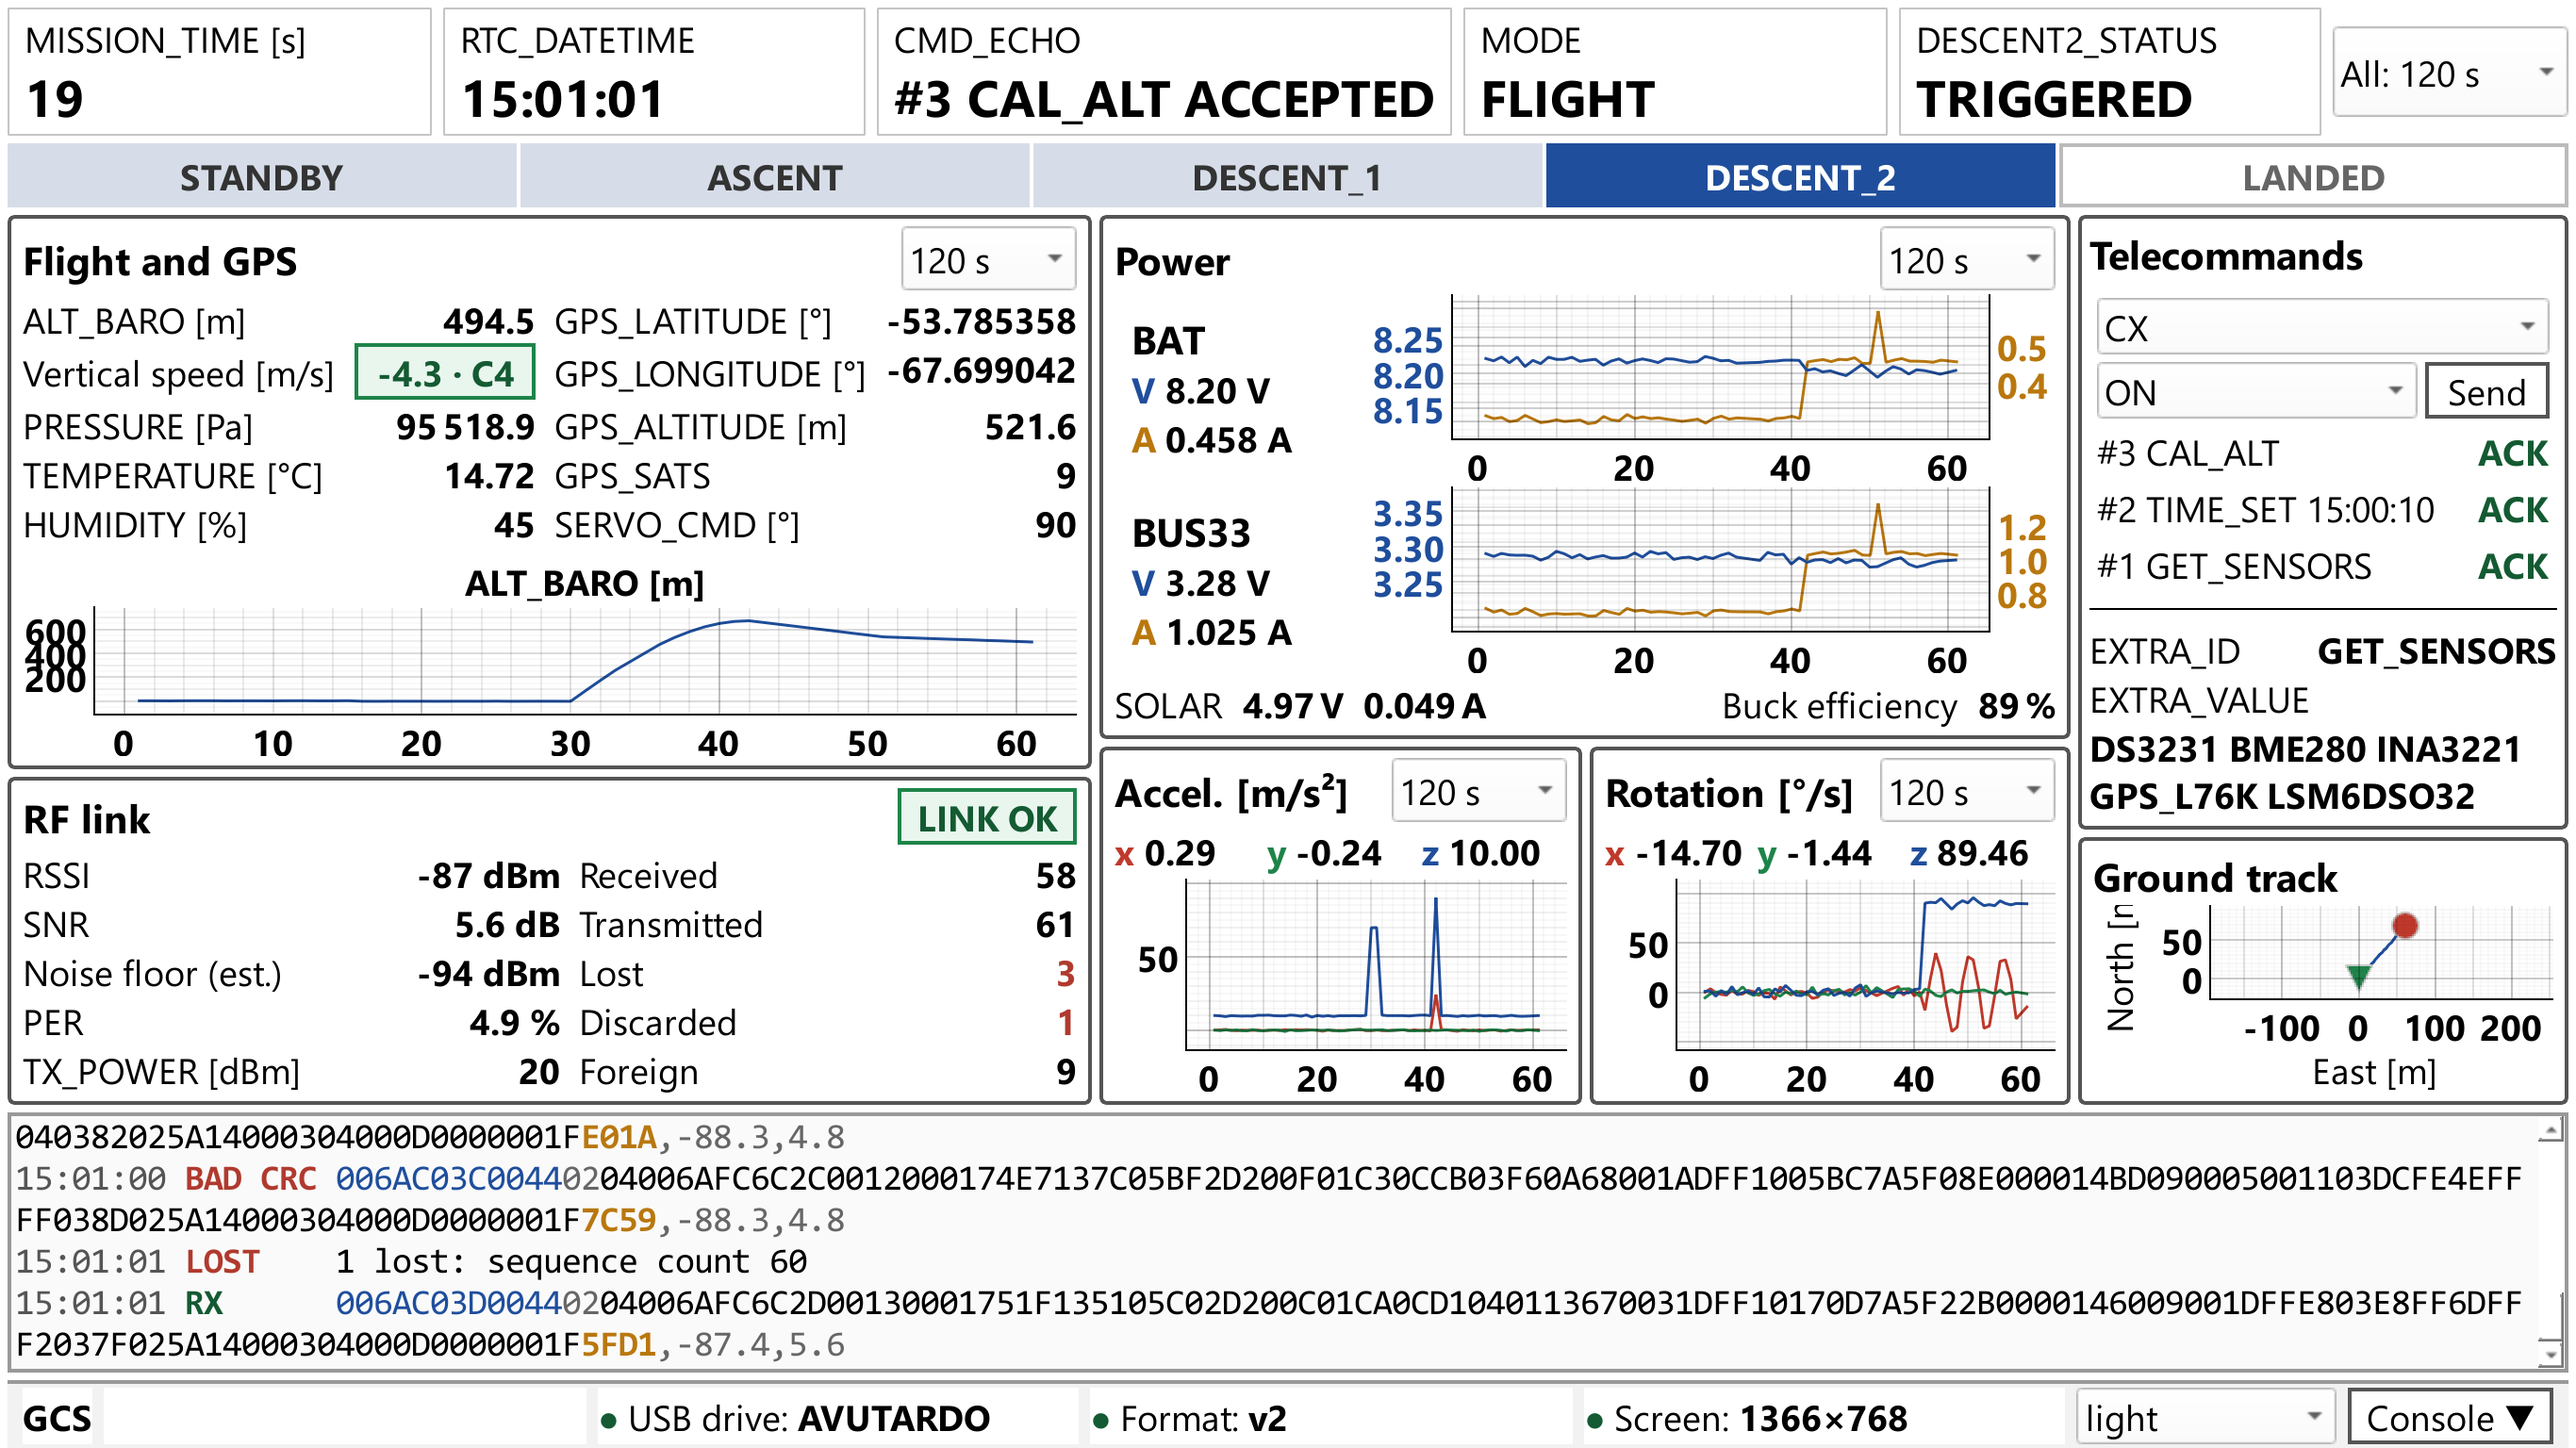
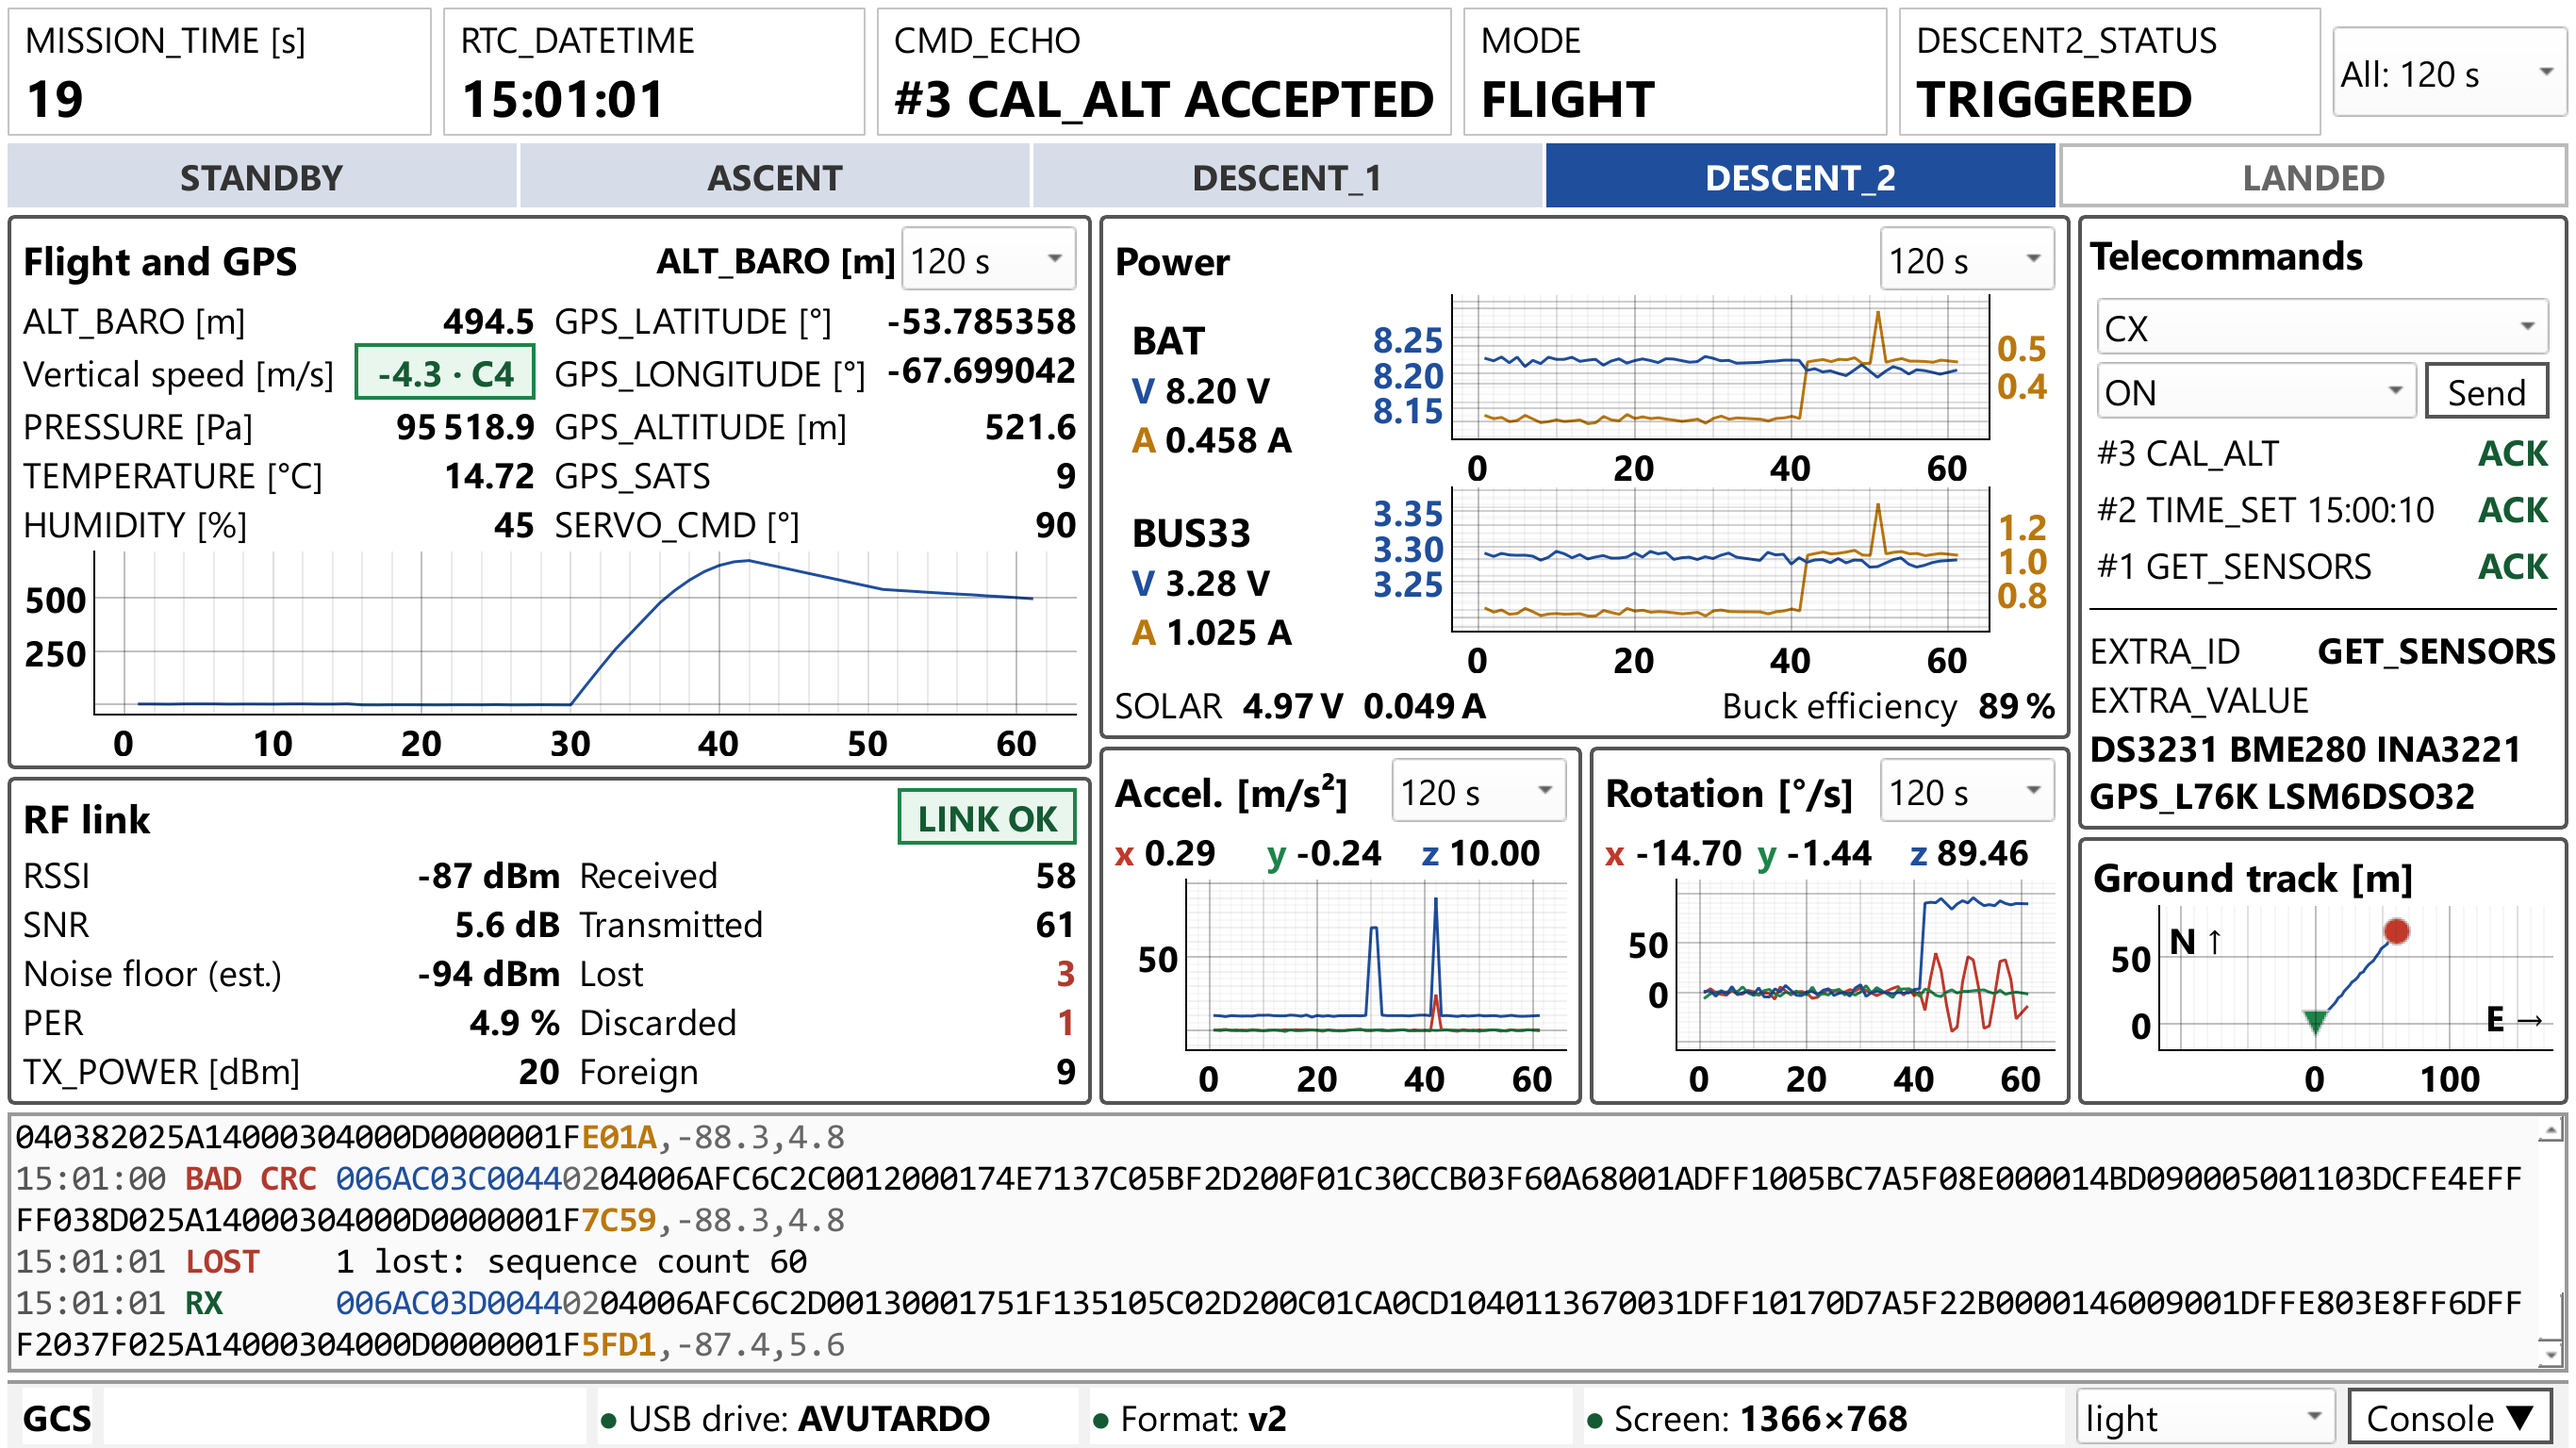
Consola abierta en M4: ALT_BARO y el Recorrido se leen (#56)
Con los gráficos en 100 px, ALT_BARO quedaba en unos 50 px útiles, con
200, 400 y 600 encimados, y el Recorrido cortaba «North [m]» (95 px de
rótulo en un eje de 48). En K6 y sus derivadas:

- El título de ALT_BARO va en la cabecera de Vuelo y GPS, junto al combo
  de la ventana, y el gráfico deja un 3 % de aire en vez del 10 % que
  pyqtgraph pone en los gráficos bajos: el viewbox pasa de 59 a 89 px
  (de 50 a 80 en high contrast).
- marcas_legibles: pyqtgraph elige cuántas marcas poner sin mirar la
  letra; si quedan a menos de 0.9 altos de letra, el paso sube por 1, 2,
  2.5, 5. Para ALT_BARO y el Recorrido.
- El Recorrido lleva la unidad en el título y «N ↑» y «E →» derechos
  dentro del mapa en lugar de los rótulos de los ejes; el mapa se queda
  con la fila del rótulo de abajo (el eje pasa de 48 a 75 px).

La ventana sigue pidiendo 765 px (768 en high contrast). Se regeneran las
capturas de la diap. 77: el cambio también se ve con la consola cerrada.

Changed region(s): [[0.0, 0.375, 0.4045, 0.5], [0.8089, 0.5938, 0.9956, 0.75], [0.2489, 0.1562, 0.3422, 0.1875]]

diff --git a/gcs/prototipos/pantalla.py b/gcs/prototipos/pantalla.py
@@ -99,6 +99,14 @@ y en gris en las demás (FALLA_SI_CERO).
     el QR de LANDED queda entero. M1 pedía 784 px con la consola; M3 aplastaba
     el gráfico de altitud y pedía 882.
 
+    #56: con los gráficos en 100 px, ALT_BARO quedaba en unos 50 px útiles y
+    con 200, 400 y 600 encimados, y el Recorrido cortaba «North [m]». En K6 y
+    sus derivadas, el título de ALT_BARO va en la cabecera de Vuelo y GPS, el
+    gráfico deja un 3 % de aire en vez del 10 % y las marcas se separan según
+    la altura de la letra; el Recorrido lleva la unidad en el título, «N ↑» y
+    «E →» derechos dentro del mapa en vez de los rótulos de los ejes, y las
+    mismas marcas. Sigue en 765 px (768 en high contrast).
+
 Telecomandos (#21), en las variantes de las rondas 6 y 7: un combobox con los
 19 de `telecomandos.toml` y, al lado, el parámetro que pide cada uno (lista de
 valores, número con su unidad y el rango del .toml, o nada; TIME_SET toma la
@@ -2984,6 +2992,74 @@ class Consola(QTextEdit):
         barra.setValue(barra.maximum())
 
 
+def marcas_legibles(eje: pg.AxisItem, separacion: float = 0.9) -> None:
+    """Que las marcas de un eje vertical no se pisen (#56). pyqtgraph elige
+    cuántas poner por el largo del eje, sin mirar la letra: con 14 pt en un
+    gráfico bajo, 200, 400 y 600 quedaban encimados. Si dos marcas quedan a
+    menos de `separacion` altos de letra, el paso sube por la serie 1, 2, 2.5, 5 y
+    sólo queda ese nivel, con su número en cada marca. Con 0.9 no se pisan
+    (los números no tienen descendentes; pyqtgraph mide su caja al 0.8); con
+    más, el paso se alarga tanto que las únicas marcas caen en los bordes, y
+    pyqtgraph esconde los números que se salen del eje."""
+    original = eje.tickSpacing
+
+    def espaciado(minimo: float, maximo: float, largo: float) -> list:
+        niveles = original(minimo, maximo, largo)
+        rango = abs(maximo - minimo)
+        if not niveles or largo <= 0 or rango == 0:
+            return niveles
+        alto = QFontMetrics(eje.style["tickFont"] or eje.font()).height()
+        necesario = separacion * alto * rango / largo  # en unidades del eje
+        paso = niveles[0][0]
+        if paso >= necesario:
+            return niveles
+        siguiente = {1.0: 2.0, 2.0: 2.5, 2.5: 5.0, 5.0: 10.0}
+        while paso < necesario:
+            potencia = 10 ** math.floor(math.log10(paso))
+            mantisa = round(paso / potencia, 1)
+            paso = siguiente.get(mantisa, 10.0) * potencia
+        return [(paso, 0)]
+
+    eje.tickSpacing = espaciado
+
+
+def titulo_a_la_cabecera(tarjeta: TarjetaH) -> None:
+    """El título del gráfico, en la cabecera de la tarjeta, justo antes del
+    combo de la ventana que lo gobierna; el gráfico se queda con su alto."""
+    w = tarjeta.plots[0]
+    texto = w.plotItem.titleLabel.text
+    w.setTitle(None)
+    cabecera = tarjeta.layout().itemAt(0).layout()
+    cabecera.insertWidget(cabecera.count() - 1, label(texto, negrita=True))
+
+
+def recorrido_compacto(tarjeta: TarjetaRecorrido) -> None:
+    """La unidad en el título y los puntos cardinales derechos, dentro del mapa:
+    con 100 px, el eje mide unos 48 y «North [m]» girado pide 95, y una «N»
+    girada se lee «Z». La columna derecha es la que fija el alto de la
+    ventana: el mapa no puede crecer, pero se queda con la fila del rótulo de
+    abajo."""
+    tarjeta.titulo.setText("Ground track [m]")
+    plot = tarjeta.plot.plotItem
+    for lado in ("left", "bottom"):
+        plot.showLabel(lado, False)
+    marcas_legibles(plot.getAxis("left"))
+    vista = plot.vb
+    html = f"<b style='font-size:{PT}pt; color:{C['texto']}'>{{}}</b>"
+    # Hijos de la ViewBox (no de los datos): quedan quietos en las esquinas.
+    norte = pg.TextItem(html=html.format("N ↑"), anchor=(0, 0))
+    este = pg.TextItem(html=html.format("E →"), anchor=(1, 1))
+    for t in (norte, este):
+        t.setParentItem(vista)
+
+    def ubicar() -> None:
+        r = vista.rect()
+        este.setPos(r.right(), r.bottom())
+
+    vista.sigResized.connect(ubicar)
+    ubicar()
+
+
 class VarianteConsola(VarianteL3):
     """L3 con la consola entre la grilla y el pie; arranca oculta."""
 
@@ -3004,6 +3080,18 @@ class VarianteConsola(VarianteL3):
                 for w in getattr(t, "plots", []):
                     w.setMinimumHeight(minimo)
             self.t["recorrido"].plot.setMinimumHeight(minimo)
+            # #56: con 100 px, la línea del título del gráfico era un cuarto del
+            # alto. El título sube a la cabecera de la tarjeta y el Recorrido
+            # lleva la unidad en el suyo, como Aceleración y Rotación.
+            titulo_a_la_cabecera(self.t["vuelo"])
+            altitud = self.t["vuelo"].plots[0]
+            marcas_legibles(altitud.getAxis("left"))
+            # pyqtgraph deja un 10 % de aire arriba y otro abajo en un gráfico
+            # bajo: de 85 px, 17. Con el 3 %, la curva se queda con ellos.
+            vista = altitud.plotItem.vb
+            margen = vista.suggestPadding
+            vista.suggestPadding = lambda eje: 0.03 if eje == 1 else margen(eje)
+            recorrido_compacto(self.t["recorrido"])
         self.boton = QPushButton()
         self.boton.setCheckable(True)
         self.boton.setFocusPolicy(Qt.FocusPolicy.NoFocus)
